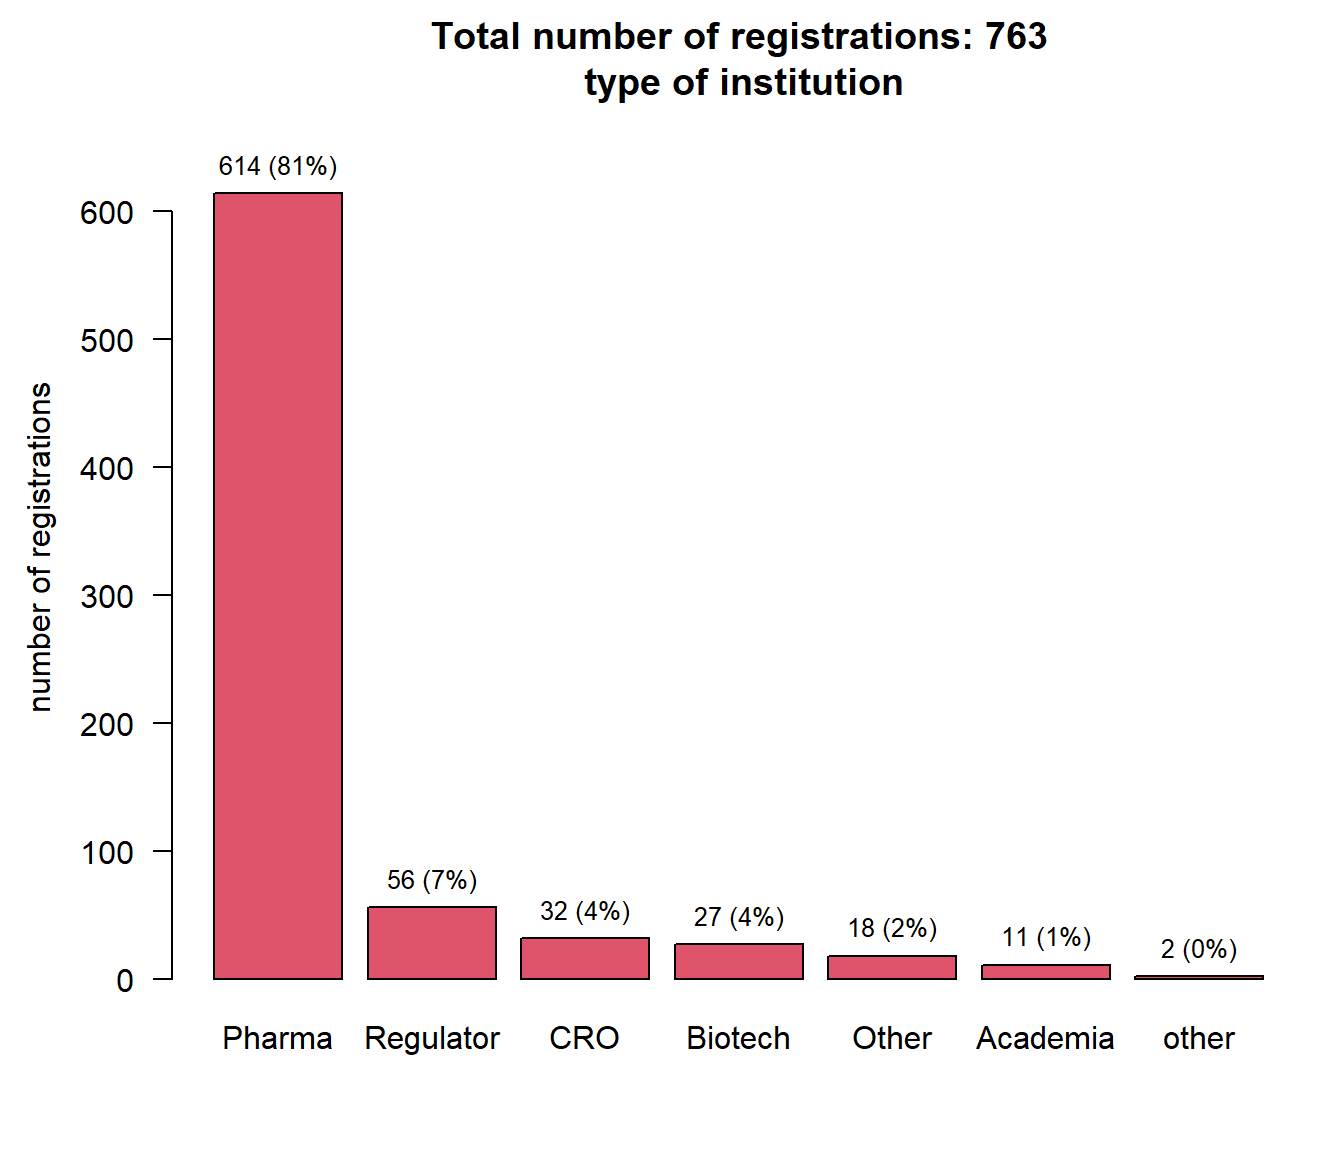
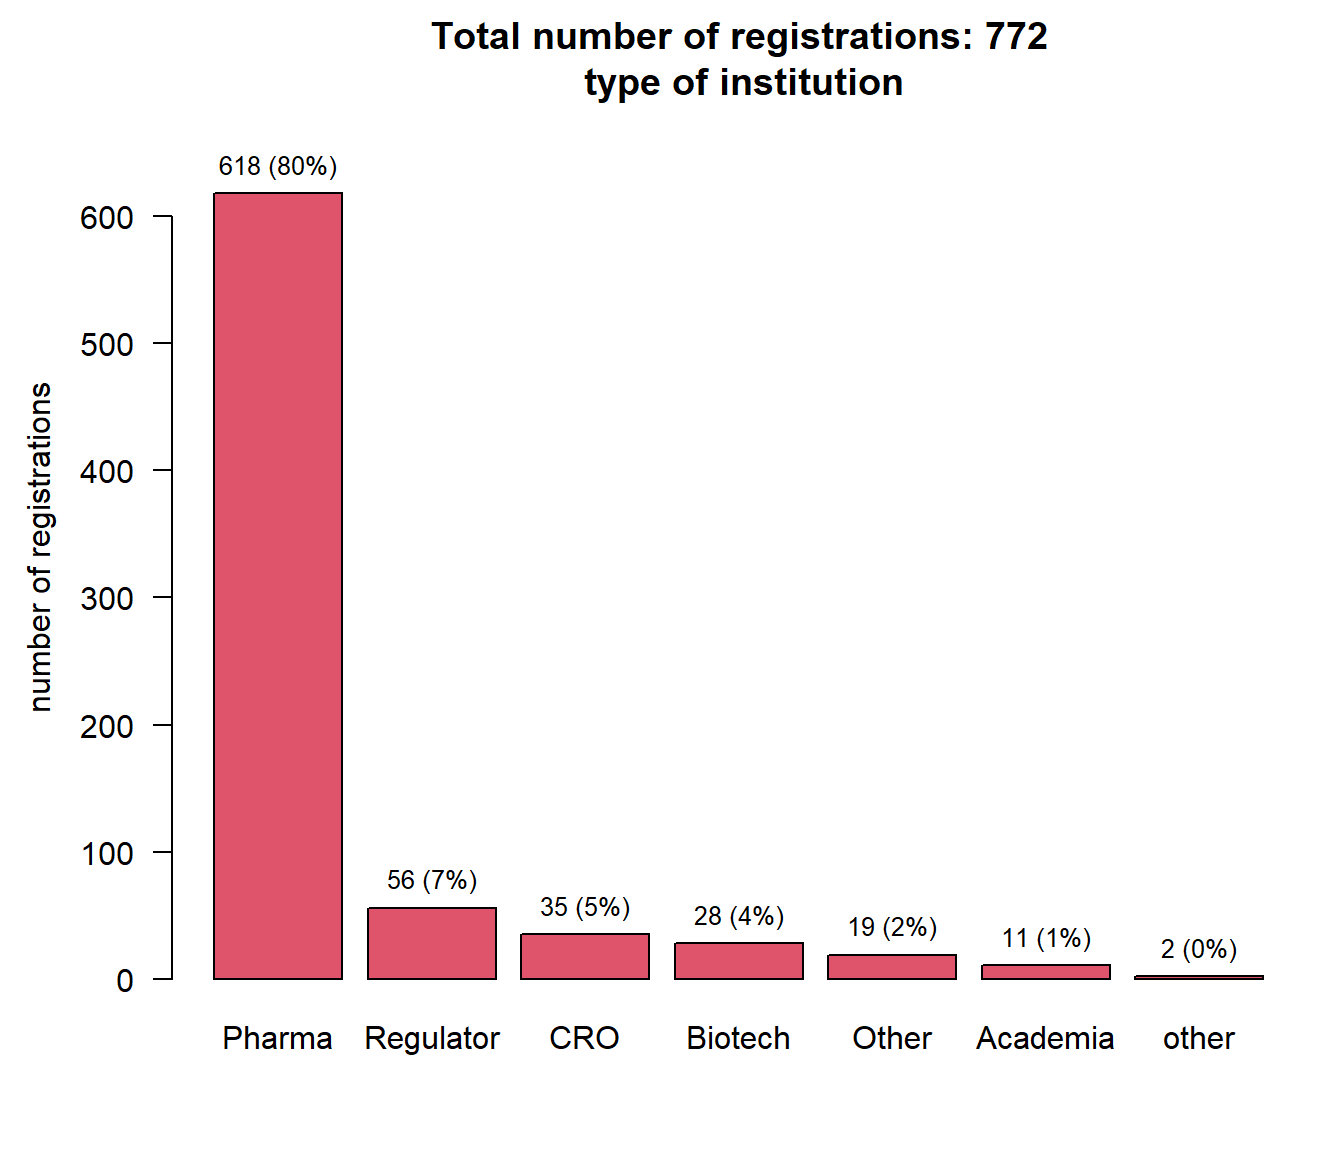
update

diff --git a/docs/data/2024/analysis2024.html b/docs/data/2024/analysis2024.html
@@ -212,7 +212,7 @@ ul.task-list li input[type="checkbox"] {
 
 <section id="data-status" class="level1">
 <h1>Data status</h1>
-<p>Data as of 2024-09-10 at 08:48:45.</p>
+<p>Data as of 2024-09-10 at 08:56:13.</p>
 </section>
 <section id="registrations-by-type-of-institution" class="level1">
 <h1>Registrations by type of institution</h1>
@@ -380,9 +380,9 @@ ul.task-list li input[type="checkbox"] {
 <tr class="header">
 <th style="text-align: left;"></th>
 <th style="text-align: center;">Bayer (N=61)</th>
-<th style="text-align: center;">BMS (N=47)</th>
-<th style="text-align: center;">Novo Nordisk (N=75)</th>
-<th style="text-align: center;">Total (N=183)</th>
+<th style="text-align: center;">BMS (N=49)</th>
+<th style="text-align: center;">Novo Nordisk (N=76)</th>
+<th style="text-align: center;">Total (N=186)</th>
 </tr>
 </thead>
 <tbody>
@@ -396,16 +396,16 @@ ul.task-list li input[type="checkbox"] {
 <tr class="even">
 <td style="text-align: left;">&nbsp;&nbsp;&nbsp;Face-to-face (280 Euro)</td>
 <td style="text-align: center;">2 (3.3%)</td>
-<td style="text-align: center;">6 (12.8%)</td>
-<td style="text-align: center;">7 (9.3%)</td>
-<td style="text-align: center;">15 (8.2%)</td>
+<td style="text-align: center;">6 (12.2%)</td>
+<td style="text-align: center;">7 (9.2%)</td>
+<td style="text-align: center;">15 (8.1%)</td>
 </tr>
 <tr class="odd">
 <td style="text-align: left;">&nbsp;&nbsp;&nbsp;Virtual (70 Euro)</td>
 <td style="text-align: center;">59 (96.7%)</td>
-<td style="text-align: center;">41 (87.2%)</td>
-<td style="text-align: center;">68 (90.7%)</td>
-<td style="text-align: center;">168 (91.8%)</td>
+<td style="text-align: center;">43 (87.8%)</td>
+<td style="text-align: center;">69 (90.8%)</td>
+<td style="text-align: center;">171 (91.9%)</td>
 </tr>
 </tbody>
 </table>

diff --git a/docs/dialin.html b/docs/dialin.html
@@ -220,7 +220,7 @@ ul.task-list li input[type="checkbox"] {
 <li><font color="red">Please exclusively use the link in the above email and do not join as an attendee - otherwise you will not be in the practice session prior to the TC</font>.</li>
 <li>We would appreciate if you could dial in about 20min early into the practice session, for us to check that everything works. Attendees can dial in but will not be in the webinar before we let them in. You will not need to log out from this session and can just stay in.</li>
 <li>Only panelists will have the option to turn on their camera and microphon. Attendees can only speak when we unmute them (which we do not plan for, we will invite them to ask questions through the chat).</li>
-<li>Status of registrations: Find this <a href="https://efspieurope.github.io/workshop/data/2023/analysis2023.html">here</a>. We have 760 registrations from 30 countries as of now, with 320 face-to-face. 58 colleagues from regulatory agencies registered so far.</li>
+<li>Status of registrations: Find this <a href="https://efspieurope.github.io/workshop/data/2023/analysis2023.html">here</a>. We have 769 registrations from 30 countries as of now, with 320 face-to-face. 58 colleagues from regulatory agencies registered so far.</li>
 <li>The current version of the program is <a href="data/2024/9th EFSPI RegStat Workshop program.pdf">here</a>.</li>
 </ul>
 </section>

diff --git a/docs/dialin_participants.html b/docs/dialin_participants.html
@@ -206,7 +206,7 @@ ul.task-list li input[type="checkbox"] {
 <li><font color="red">Day 2</font>: Use this <a href="https://roche.zoom.us/j/96638250426">zoom link</a> to dial in, with passcode 120924.</li>
 <li><font color="red">Day 3</font>: Use this <a href="https://roche.zoom.us/j/95407585133">zoom link</a> to dial in, with passcode 130924</li>
 <li>Attendees are invited to ask questions through zoom’s Q&amp;A functionality.</li>
-<li>Status of registrations: Find this <a href="https://efspieurope.github.io/workshop/data/2024/analysis2024.html">here</a>. We have 760 registrations from 30 countries as of now, with 320 face-to-face. 58 colleagues from regulatory agencies registered so far.</li>
+<li>Status of registrations: Find this <a href="https://efspieurope.github.io/workshop/data/2024/analysis2024.html">here</a>. We have 769 registrations from 30 countries as of now, with 320 face-to-face. 58 colleagues from regulatory agencies registered so far.</li>
 </ul>
 </section>
 <section id="face-to-face-attendance" class="level1">
